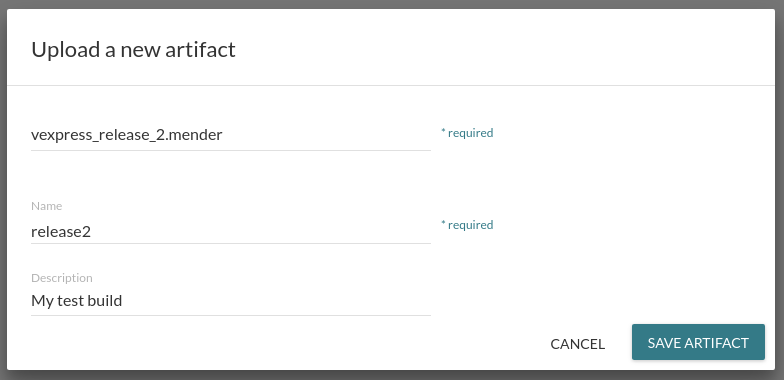
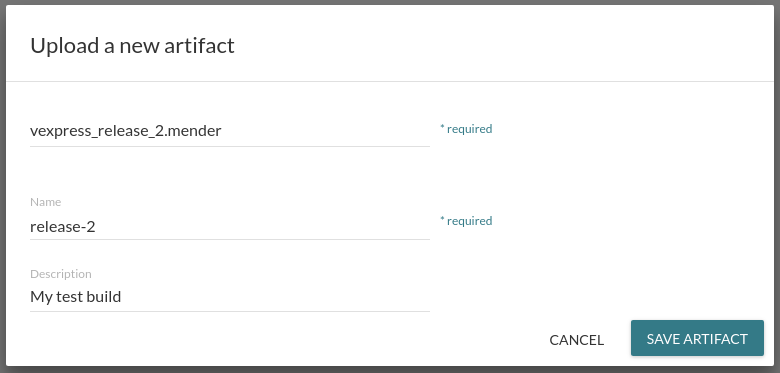
finsished virtual device with new artifact. removed /etc/issue checking (not part of artifact)

diff --git a/01.Getting-started/03.Deploy-to-virtual-devices/docs.md b/01.Getting-started/03.Deploy-to-virtual-devices/docs.md
@@ -52,22 +52,10 @@ clicking on a device. It should look similar to the following:
 !!! Which information is collected about devices is fully configurable; see the documentation on [Identity](../../Client-configuration/Identity) and [Inventory](../../Client-configuration/Inventory) for more information.
 
 You can also see that the `artifact_name` is `mender-image-1.0`.
-The device console can be shown by running the following command:
 
-```
-sudo docker logs $(sudo docker ps | grep mender-client | cut -f1 -d' ')
-```
+After deploying the update below, you can verify that this `artifact_name` has changed.
 
-It should yield output similar to the following:
-
-> ...  
-> [  OK  ] Started Network Name Resolution.  
-> [  OK  ] Started Mender OTA update service.  
-> [  OK  ] Reached target Multi-User System.  
->  
-> Poky (Yocto Project Reference Distro) 2.2 vexpress-qemu ttyAMA0
-
-After deploying the update below, you can verify that this `artifact_name` and the console text (from `/etc/issue`) has changed.
+!!! The device console can be seen by running `sudo docker logs $(sudo docker ps | grep mender-client | cut -f1 -d' ')`.
 
 
 ## Upload a new Mender Artifact to the server
@@ -86,7 +74,7 @@ click the **Artifacs** tab and upload this Mender Artifact.
 
 Please fill in the following:
 
-* Name: `release2`
+* Name: `release-2`
 * Description: `My test build`
 
 !!! Both these fields are just informational, to make it is easier to recognize Artifacts after they have been uploaded. Their contents do not affect deployments.
@@ -116,8 +104,7 @@ the Artifact we just uploaded and **All devices**, then
 ## See the progress of the deployment
 
 As the deployment progresses, you can click on it to view more details about the current status across all devices.
-In the example below, we can see that the device has finished the installation and is in process of rebooting into
-the new rootfs deployed with the Artifact.
+In the example below, we can see that the device is in process of installing the Artifact.
 
 ![Mender UI - Deployment progress](deployment_report.png)
 
@@ -130,29 +117,8 @@ Once the deployment completes, you should see it in *Past deployments*.
 If the deployment fails you can view the deployment log,
 which is obtained from the device, to diagnose the issue.
 You can also see the state of deployments on the Dashboard.
-In **Devices** you can see that `artifact_name` has now changed to `release2`.
+In **Devices** you can see that `artifact_name` has now changed to `release-2`.
 
-!! TODO: actial artifact_name above
-
-Furthermore, you can again check the terminal of the virtual device with:
-
-```
-sudo docker logs $(sudo docker ps | grep mender-client | cut -f1 -d' ')
-```
-
-It should yield output similar to the following.
-
-> ...  
-> [  OK  ] Started Network Name Resolution.  
-> [  OK  ] Started Mender OTA update service.  
-> [  OK  ] Reached target Multi-User System.  
->   
-> This system has been updated by Mender build...
-
-!! TODO: check this is still the case
-
-You can see that this has changed from when we ran it in
-[See information about the device](#see-information-about-the-device).
 This shows your virtual device runs the new rootfs!
 
 
@@ -167,24 +133,16 @@ immediately be marked as successful and moved to *Past deployments*.
 
 For this reason, we provide another Artifact that you can use
 to deploy with at [https://d1b0l86ne08fsf.cloudfront.net/master/vexpress-qemu/vexpress_release_1.mender](https://d1b0l86ne08fsf.cloudfront.net/master/vexpress-qemu/vexpress_release_1.mender).
-This Artifact actually contains the original  of your
-QEMU virtual device, before you deployed the update above.
 
 Go to **Artifacts** again and upload with the following fields:
 
-* Name: `release1`
+* Name: `release-1`
 * Description: `My original build`
 
-After the Artifact has been uploaded, you can deploy it to your device
-to get it back to the original root file system.
+After the Artifact has been uploaded, you can deploy it to your device,
+as you did earlier.
 
-Now, if you observe the virtual client boot process
-in your docker compose terminal, you can see the original message
-from `/etc/issue` just before the login prompt again:
-
-> mender-client_1             | Poky (Yocto Project Reference Distro) 2.1.1 vexpress-qemu ttyAMA0
-
-Following this, you can deploy the `release2` Artifact again, and so forth.
+Following this, you can deploy the `release-2` Artifact again, and so forth.
 
 
 ## Deploy to custom groups
